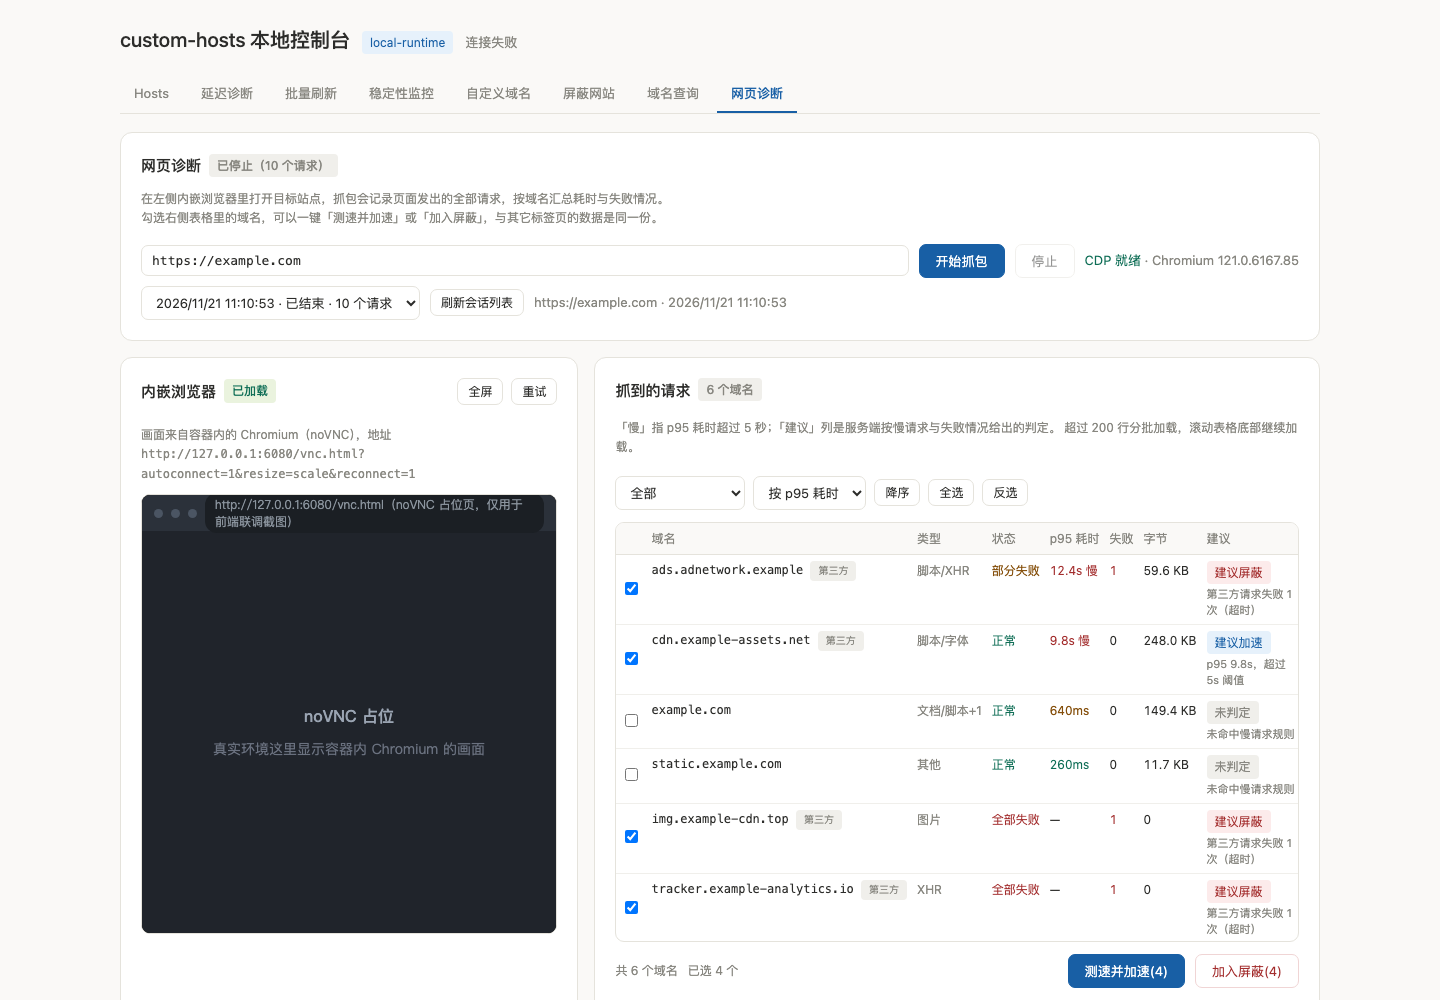
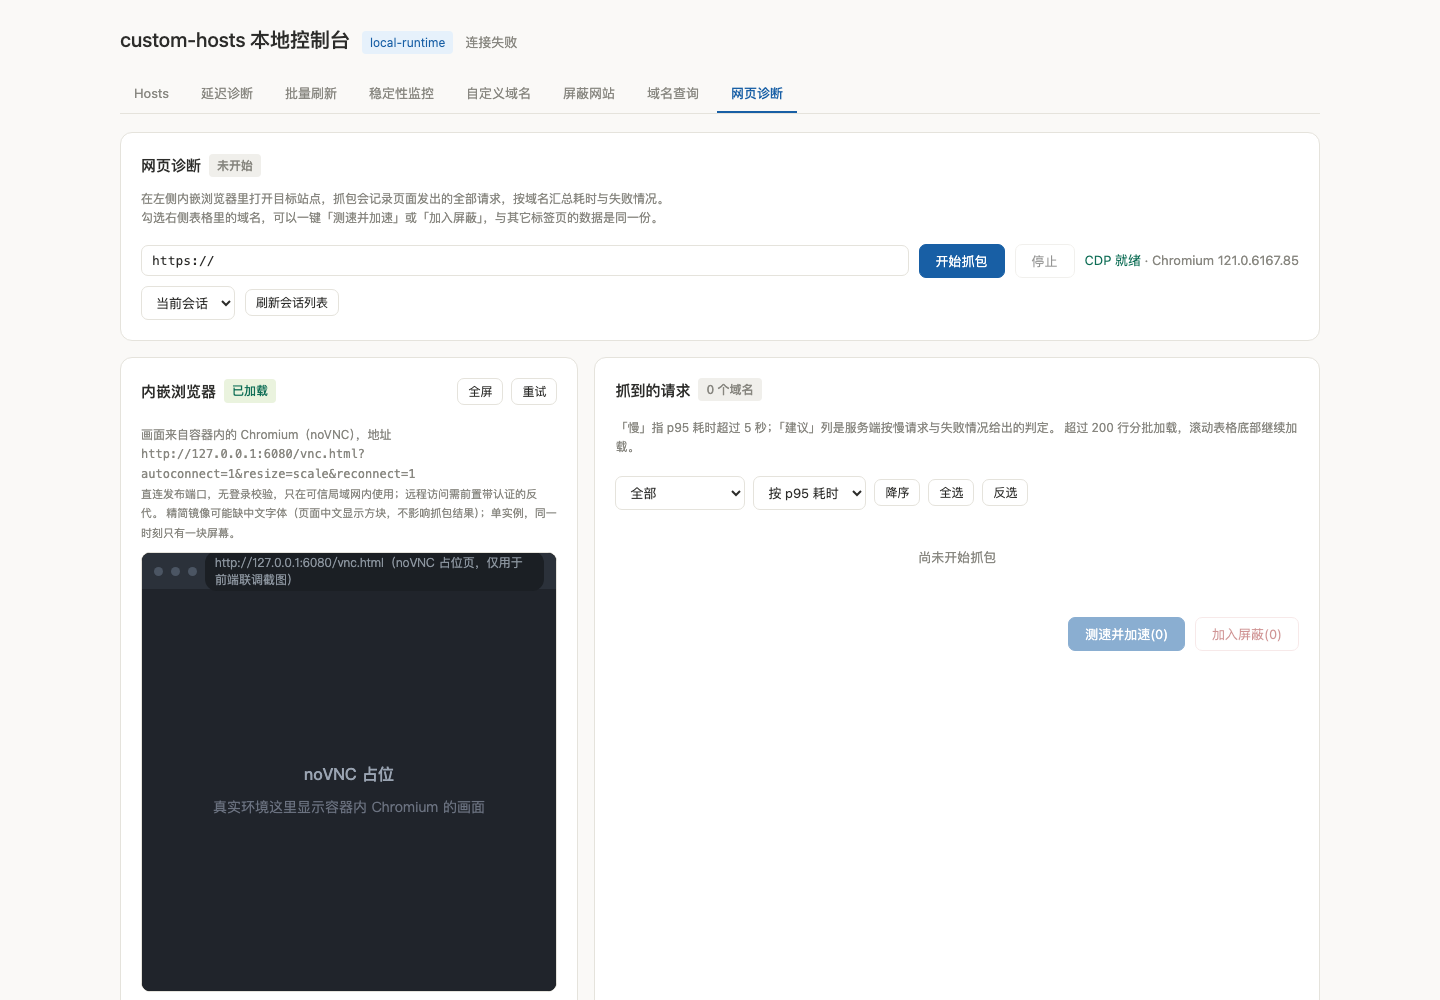
fix(console): 网页诊断对齐契约 v1.1 与 noVNC 实际部署
- verdict=proxy 的行不给勾选框，也不参与全选/反选/默认预选（改 hosts 无效，只提示加 proxy 规则）
- HostSummary.timeouts 落到「失败」列 tooltip，字段缺失按 0 兜底
- noVNC 重试带 _t 时间戳绕过浏览器缓存（静态页会被缓存住导致一直连不上）
- 内嵌浏览器说明补充：零鉴权仅限可信局域网、精简镜像可能缺中文字体、单实例
- 报告并入 A 的端口确认（6080，非 8888）与 C 的 v1.1 口径

diff --git a/public/console.html b/public/console.html
@@ -451,7 +451,11 @@
           <button class="sm" id="btnCapVncRetry">重试</button>
         </h2>
         <p class="hint" style="margin-bottom:10px">
-          画面来自容器内的 Chromium（noVNC），地址 <span class="mono" id="capVncUrl"></span>
+          画面来自容器内的 Chromium（noVNC），地址 <span class="mono" id="capVncUrl"></span><br>
+          <span style="font-size:11px">
+            直连发布端口，无登录校验，只在可信局域网内使用；远程访问需前置带认证的反代。
+            精简镜像可能缺中文字体（页面中文显示方块，不影响抓包结果）；单实例，同一时刻只有一块屏幕。
+          </span>
         </p>
         <div class="cap-vnc-box" id="capVncBox"></div>
       </div>
@@ -1912,16 +1916,18 @@ function capVncCover(html) {
   return div
 }
 
-function capVncLoad() {
+function capVncLoad(bust) {
   const box = el('capVncBox')
-  const url = capVncTarget()
-  el('capVncUrl').textContent = url
+  // 重试时带一个随机参数，绕过浏览器对整页的缓存（noVNC 前端是静态页，缓存住会一直连不上）
+  const base = capVncTarget()
+  const url = bust ? `${base}${base.includes('?') ? '&' : '?'}_t=${Date.now()}` : base
+  el('capVncUrl').textContent = base
   el('capVncBadge').textContent = '连接中'
   el('capVncBadge').className = 'badge gray'
   box.innerHTML = ''
 
   const cover = capVncCover(
-    `<div>正在连接内嵌浏览器…</div><div class="sub mono">${escAttr(url)}</div>`
+    `<div>正在连接内嵌浏览器…</div><div class="sub mono">${escAttr(base)}</div>`
   )
   cover.style.pointerEvents = 'none'
 
@@ -1930,7 +1936,7 @@ function capVncLoad() {
   const probe = CAP_VNC_URL ? Promise.resolve(true) : capVncReachable(url)
   probe.then((ok) => {
     if (!ok) {
-      capVncFail(url)
+      capVncFail(base)
       return
     }
     const frame = document.createElement('iframe')
@@ -1940,7 +1946,7 @@ function capVncLoad() {
     const timer = setTimeout(() => {
       if (settled) return
       settled = true
-      capVncFail(url)
+      capVncFail(base)
     }, 8000)
     frame.addEventListener('load', () => {
       if (settled) return
@@ -1971,10 +1977,11 @@ function capVncFail(url) {
   const cover = capVncCover(
     `<div>连接不上内嵌浏览器</div>
      <div class="sub mono">${escAttr(url)}</div>
-     <div class="sub">确认 noVNC 已启动、端口可达；也可用 <code>?vnc=&lt;完整地址&gt;</code> 或 <code>?vncPort=&lt;端口&gt;</code> 覆盖地址。</div>
+     <div class="sub">确认 noVNC 容器已启动、6080 端口可达（CAPTURE_NOVNC_PORT 可改）。<br>
+       也可用 <code>?vnc=&lt;完整地址&gt;</code> 或 <code>?vncPort=&lt;端口&gt;</code> 覆盖地址。</div>
      <button class="sm" id="capVncRetryInline">重试</button>`
   )
-  cover.querySelector('#capVncRetryInline').addEventListener('click', capVncLoad)
+  cover.querySelector('#capVncRetryInline').addEventListener('click', () => capVncLoad(true))
 }
 
 function capVncFullscreen() {
@@ -2209,11 +2216,13 @@ async function capRunSummary() {
 function capApplySummary(hosts) {
   cap.hosts = hosts
   cap.liveCount = cap.hosts.reduce((a, h) => a + (h.requests || 0), 0)
+  // proxy 表示改 hosts 无效，不参与勾选
+  const pickable = (h) => h.verdict !== 'proxy'
   if (!cap.userPicked) {
     // 首次拿到数据时按服务端建议预选
-    cap.selected = new Set(cap.hosts.filter((h) => h.suggested).map((h) => h.host))
+    cap.selected = new Set(cap.hosts.filter((h) => h.suggested && pickable(h)).map((h) => h.host))
   } else {
-    const alive = new Set(cap.hosts.map((h) => h.host))
+    const alive = new Set(cap.hosts.filter(pickable).map((h) => h.host))
     for (const h of [...cap.selected]) if (!alive.has(h)) cap.selected.delete(h)
   }
   capRebuildView()
@@ -2249,7 +2258,9 @@ function capRebuildView() {
 }
 
 function capRowHtml(h) {
-  const checked = cap.selected.has(h.host) ? ' checked' : ''
+  // verdict=proxy 表示改 hosts 无效，C 明确要求不给勾选框；其余行（含 ignore/unknown）仍可手选
+  const selectable = h.verdict !== 'proxy'
+  const checked = selectable && cap.selected.has(h.host) ? ' checked' : ''
   const slow = capIsSlow(h)
   const p95 = h.p95TotalMs != null ? h.p95TotalMs : (h.p95TtfbMs ?? null)
   const failures = h.failures || 0
@@ -2271,12 +2282,12 @@ function capRowHtml(h) {
   }[h.verdict] || '<span class="badge gray">未判定</span>'
 
   return `<tr>
-    <td><input type="checkbox" data-check="${escAttr(h.host)}"${checked}></td>
+    <td>${selectable ? `<input type="checkbox" data-check="${escAttr(h.host)}"${checked}>` : ''}</td>
     <td class="cap-host">${escAttr(h.host)}${h.thirdParty ? ' <span class="badge gray" style="font-size:10px">第三方</span>' : ''}</td>
     <td class="cap-kinds" title="${escAttr(kinds.join('/'))}">${escAttr(kindText || '—')}</td>
     <td>${status}</td>
     <td class="num ${capP95Class(p95)}">${fmtMs(p95)}${slow ? ' <span class="bad">慢</span>' : ''}</td>
-    <td class="num ${failures ? 'bad' : ''}">${failures}</td>
+    <td class="num ${failures ? 'bad' : ''}"${(h.timeouts ?? 0) ? ` title="${h.timeouts} 个超时"` : ''}>${failures}</td>
     <td class="num">${fmtBytes(h.bytes)}</td>
     <td class="cap-advice">${verdict}<div class="cap-reason">${escAttr(h.reason || '')}</div></td>
   </tr>`
@@ -2543,7 +2554,7 @@ function capOnShow() {
 el('btnCapStart').addEventListener('click', capStart)
 el('btnCapStop').addEventListener('click', capStop)
 el('btnCapVncFs').addEventListener('click', capVncFullscreen)
-el('btnCapVncRetry').addEventListener('click', capVncLoad)
+el('btnCapVncRetry').addEventListener('click', () => capVncLoad(true))
 el('btnCapReloadSessions').addEventListener('click', () => capLoadSessions(cap.sessionId))
 el('btnCapAccel').addEventListener('click', () => capApply('accel'))
 el('btnCapBlock').addEventListener('click', () => capApply('block'))
@@ -2563,13 +2574,14 @@ el('btnCapSortDir').addEventListener('click', () => {
 })
 el('btnCapAll').addEventListener('click', () => {
   cap.userPicked = true
-  for (const h of cap.view) cap.selected.add(h.host)
+  for (const h of cap.view) if (h.verdict !== 'proxy') cap.selected.add(h.host)
   capRenderTable()
   capSyncActions()
 })
 el('btnCapInvert').addEventListener('click', () => {
   cap.userPicked = true
   for (const h of cap.view) {
+    if (h.verdict === 'proxy') continue
     if (cap.selected.has(h.host)) cap.selected.delete(h.host)
     else cap.selected.add(h.host)
   }

diff --git a/docs/orchestration/reports/D-capture-ui.md b/docs/orchestration/reports/D-capture-ui.md
@@ -1,10 +1,10 @@
 # D1–D3/D5–D7 控制台「网页诊断」标签页
 
-- **结论**：可合并（一处需主 agent/A 确认：noVNC 默认端口）
+- **结论**：可合并
 - **Lane / Owner**：D / agent-D
-- **分支 / 基线**：`feat/D-capture-ui` @ `a765f37`（从 `integration/capture@a765f37` 切出）
-- **状态**：REPORTED
-- **报告时间**：2026-11-21 11:25
+- **分支 / 基线**：`feat/D-capture-ui`（从 `integration/capture@a765f37` 切出，两个提交：主体 + 契约 v1.1 跟进）
+- **状态**：REPORTED（第 2 版，已并入 A 的端口确认与 C 的 v1.1 口径）
+- **报告时间**：2026-11-21 11:40
 
 ## 变更范围
 
@@ -109,6 +109,14 @@ PASS  规则 404 时提示「规则输出未启用」
 - SSE 只消费 `state` / `request` / `error` / `end` 四种帧；`end` 后不再重连
 - 表格列全部取自 `HostSummary`（p95 优先 `p95TotalMs`，缺失时退化到 `p95TtfbMs`；`verdict`/`reason`/`suggested` 原样展示，前端不做二次判定）
 - 「慢」的筛选口径按契约 `SLOW`（p95 > 5000ms），与 C 的判定一致
+- `p50TtfbMs` / `p95TtfbMs` / `p95TotalMs` 为 `undefined`（全部缓存命中）时显示 `—`，不会显示成 `0ms`
+
+### 契约 v1.1 跟进（C 的 `feat/C-aggregate @ 3f501d3`）
+
+- **`verdict='proxy'` 的行不给勾选框**，也不参与全选/反选/默认预选（改 hosts 无效，只提示加 Clash proxy 规则）。
+  实现在 `capRowHtml` 的 `selectable` 与 `capApplySummary` / 全选 / 反选三处，`proxy` 与 `accel`/`block` 可在同一批结果里共存。
+- **`HostSummary.timeouts`**：没有单独加列（表格已 8 列、宽度紧张），改为「失败」单元格的 `title`（如「2 个超时」），
+  完整文案由 C 写进 `reason`；字段缺失时按 `?? 0` 兜底。
 
 前端额外加了三个**仅本地开发用**的 URL 开关（都写在注释里，不影响生产）：
 
@@ -125,14 +133,18 @@ PASS  规则 404 时提示「规则输出未启用」
    于是 `s.requests = [...s.requests, r]` 抛 `TypeError: s.requests is not iterable`，进程直接退出。
    现象：前端只看到 `state: running` + 0 条数据。修复只需把 L143–146 的三处 `s.requests` 改成 `rec.requests`
    （我已在 `/tmp` 副本上验证）。**建议主 agent 修完再让 B/C 用它联调。**
-2. **noVNC 默认端口**：任务书写 6080，但 `docs/dev-plan-capture-novnc.md` L224 与
-   `docs/design-capture-and-clash.md` L49/L186 写的是 NAS 上现有 novnc 的 **8888**。
-   当前实现默认 6080，并可用 `?vncPort=` / `?vnc=` 覆盖，等 A 确认 compose 里实际 publish 的端口后再定默认值。
-   已发消息问 agent-A，尚未收到回复。
-3. **历史会话是否允许直接应用**：按任务书「只读」实现了（历史会话下两个按钮禁用，提示「历史会话只读」）。
+2. **历史会话是否允许直接应用**：按任务书「只读」实现了（历史会话下两个按钮禁用，提示「历史会话只读」）。
    如果产品上希望「回看旧会话也能一键加速」，去掉 `capSyncActions` 里的 `cap.history` 条件即可。
-4. **`GET /local/capture?limit=20` 的挂载形式**：契约表格写 `GET /?limit=20`，mock 实现的是
+3. **`GET /local/capture?limit=20` 的挂载形式**：契约表格写 `GET /?limit=20`，mock 实现的是
    `/local/capture?limit=20`（无尾斜杠）。前端按 mock 的写法调用，若 B 用了尾斜杠形式请告知，改一处字符串即可。
+
+### 已确认（本版并入）
+
+- **noVNC 端口 = 6080**（agent-A 确认：compose 里 `${CAPTURE_NOVNC_PORT:-6080}:8080`，容器内部 8080）。
+  8888 是 NAS 上另一个独立 novnc 容器，指过去会看不到抓包浏览器，所以默认值用 6080；
+  前端留了 `CAP_VNC_PORT` 常量 + `?vncPort=` / `?vnc=` 双覆盖，将来若改成 `/vnc/` 反代只换 base 即可。
+- 直连发布端口、不经 app 反代；noVNC 前端是静态页，**重试时带 `_t=<ts>` 绕过浏览器缓存**（A 的建议）。
+- 镜像零鉴权、可能缺中文字体、单实例这三条限制已写进「内嵌浏览器」卡片的说明文字。
 
 ## 风险与回滚
 
